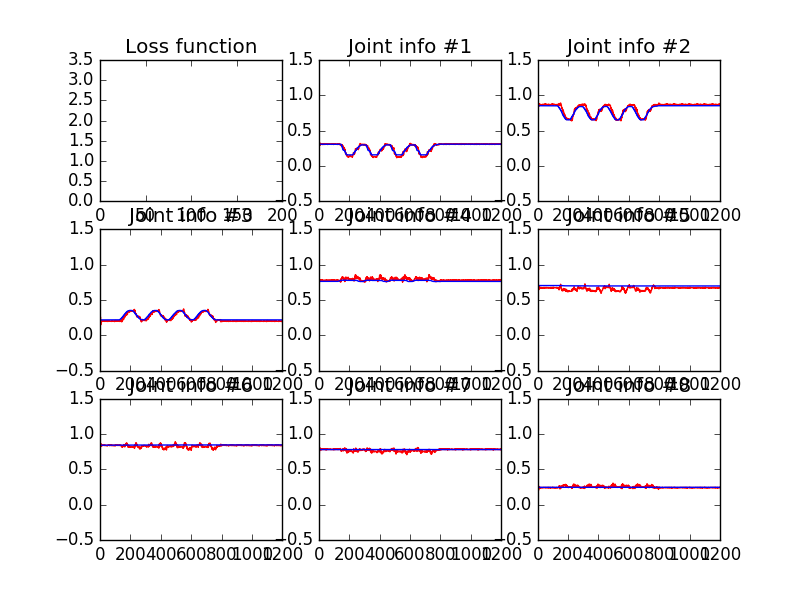
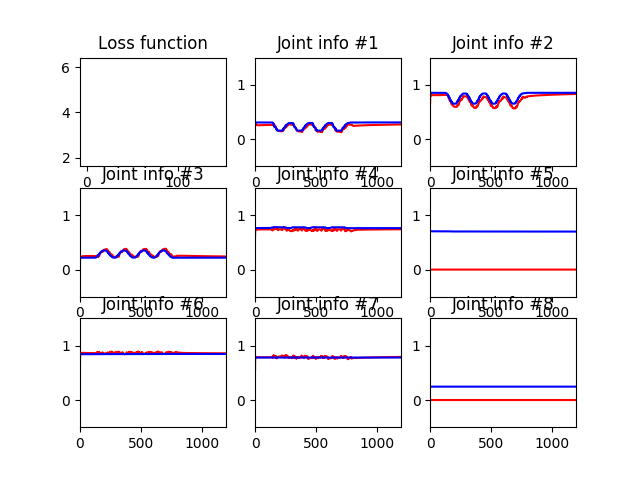
update

Changed region(s): [[0.0625, 0.0625, 0.9375, 0.9375], [0.875, 0.7188, 0.9062, 0.75]]

diff --git a/RNN_new/GRU_v2-3.py b/RNN_new/GRU_v2-3.py
@@ -33,8 +33,8 @@ joint_path = {
 }
 result_path = './result/'
 
-def initJoint():
-    joint = np.zeros([batch_size, seq_len, joint_size]).astype(float)
+def initJoint(length):
+    joint = np.zeros([batch_size, length, joint_size]).astype(float)
     
     f = open(joint_path[0], 'rb')
     dataReader = csv.reader(f)
@@ -44,25 +44,39 @@ def initJoint():
     joint[:, :, 0:joint_size] = j
     return joint
 
-# GRU graph input
+# GRU graph input for training
 x_placeholder = tf.placeholder(tf.float64, [None, None, vision_size])
 y_placeholder = tf.placeholder(tf.float64, [None, None, output_size])
 Y_ = tf.reshape(y_placeholder, [-1, output_size])
 Hin = tf.placeholder(tf.float64, [None, total_cell_size])
-Xj = tf.Variable(initJoint())
-reset = tf.assign(Xj, initJoint())
+Xj = tf.Variable(initJoint(seq_len))
+reset = tf.assign(Xj, initJoint(seq_len))
 
-# GRU model
-print x_placeholder.shape
-print Xj.shape
-x_in = tf.concat([Xj, x_placeholder], 2)
-print x_in.shape
+# GRU graph input for testing
+x_t = tf.placeholder(tf.float64, [None, 1, vision_size])
+y_t = tf.placeholder(tf.float64, [None, 1, output_size])
+Hin_t = tf.placeholder(tf.float64, [None, total_cell_size])
+Xj_t = tf.Variable(initJoint(1))
+reset_t = tf.assign(Xj_t, initJoint(1))
+
+# GRU model for training
+w_j = tf.Variable(tf.random_normal([cell_size[2], joint_size]))
+w_v = tf.Variable(tf.random_normal([cell_size[2], vision_size]))
+b_j = tf.Variable(tf.zeros[joint_size])
+b_v = tf.Variable(tf.zeros[vision_size])
 mcell = tf.contrib.rnn.MultiRNNCell([tf.contrib.rnn.GRUCell(cell_size[i]) for i in range(num_layer)], state_is_tuple = False)
+x_in = tf.concat([Xj, x_placeholder], 2)
 out, state = tf.nn.dynamic_rnn(mcell, x_in, initial_state = Hin)
 
+# GRU model for testing
+x_in_t = tf.concat([Xj_t, x_t], 2)
+out_t, state_t = tf.nn.dynamic_rnn(mcell, x_in_t, initial_state = Hin_t)
+
 # output
-Yj = tf.contrib.layers.linear(tf.reshape(out, [-1, cell_size[2]]), joint_size)
-Yv = tf.contrib.layers.linear(tf.reshape(out, [-1, cell_size[2]]), vision_size)
+#Yj = tf.contrib.layers.linear(tf.reshape(out, [-1, cell_size[2]]), joint_size)
+#Yv = tf.contrib.layers.linear(tf.reshape(out, [-1, cell_size[2]]), vision_size)
+Yj = tf.matmul(tf.reshape(out, [-1, cell_size[2]]), w_j) + b_j
+Yv = tf.matmul(tf.reshape(out, [-1, cell_size[2]]), w_v) + b_v
 Y = tf.concat([Yj, Yv], 1)
 Xj = tf.reshape(Yj, [batch_size, seq_len, joint_size])
 
